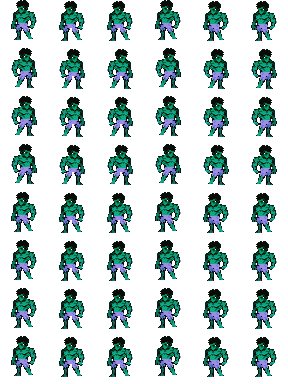
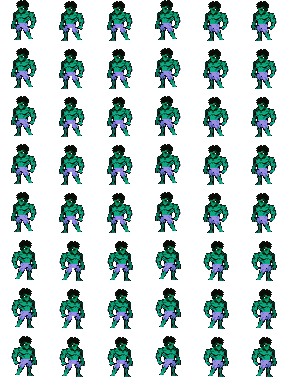
Héroes: corregir la orientación al ir a izquierda y derecha (estaban espejados)
Claude-Session: https://claude.ai/code/session_01NKXfdGR8G1iTrYkbieCHGV

diff --git a/CLAUDE.md b/CLAUDE.md
@@ -38,6 +38,6 @@ Juego web 2D estilo Vampire Survivors con héroes de Marvel. Lo desarrolla un eq
 - Oro y progreso permanente: `src/meta/` (guardado, mejoras permanentes) · balance del oro en `GOLD`, `BREAKABLE_PROPS` y `META` de `gameplayConfig.ts`
 - Interfaz: `src/ui/` (`UiButton`, `UpgradeCard`, `drawPanel` y escalas en `uiLayout.ts`)
 - Héroes: `src/characters/` (registro en `registry.ts`, rarezas en `rarity.ts`; para sumar uno: definición + sprites en `HEROES` del generador + entrada en el registro; su precio sale de su `rarity`) · Escenas: `src/scenes/` (Boot, Menu, Game, Hud)
-- Arte de héroes: Iron Man sale de `tools/ironman-reference.mjs`; Capitán y Thor están calcados de las imágenes de referencia de Santi (`tools/hero-trace-*.mjs`, 40 de alto, un solo dibujo que mira a la derecha y se espeja; cuadros de 48×48, suelo en (24, 41), `DRAWN_HEROES` en el generador); Spider-Man y Hulk también (mismo método). Todos los héroes usan cuadros de 48×48.
+- Arte de héroes: Iron Man sale de `tools/ironman-reference.mjs`; Capitán y Thor están calcados de las imágenes de referencia de Santi (`tools/hero-trace-*.mjs`, 40 de alto, un solo dibujo que se espeja al ir a la derecha; cuadros de 48×48, suelo en (24, 41), `DRAWN_HEROES` en el generador); Spider-Man y Hulk también (mismo método). Todos los héroes usan cuadros de 48×48.
 - Íconos de la tienda: `tools/meta-icons.mjs` (dibujados con código, 16×16), `tools/meta-icons-custom.mjs` (a mano, 16×16) y `tools/meta-icons-custom32.mjs` (a mano, 32×32); la hoja final usa cuadros de 32×32 (`SHEET_CELL`, `META_ITEM_SIZE`).
 - Detalles de sprites y cómo agregar animaciones o personajes: `README.md`
